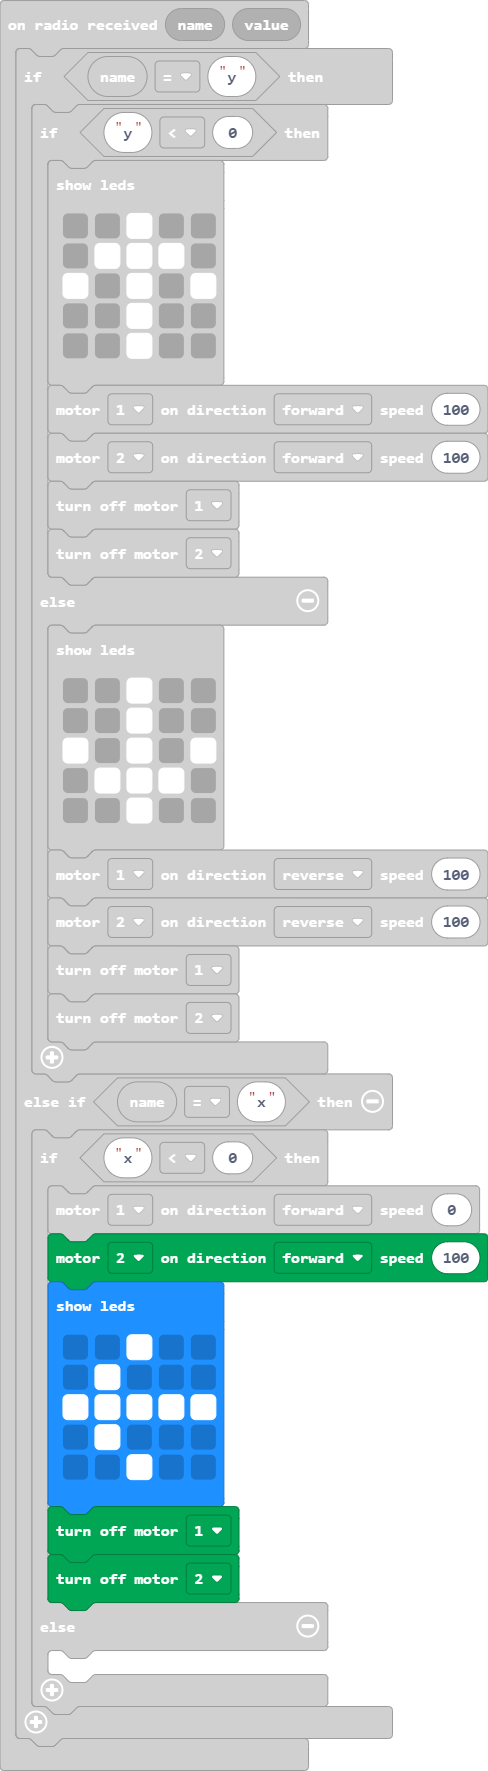
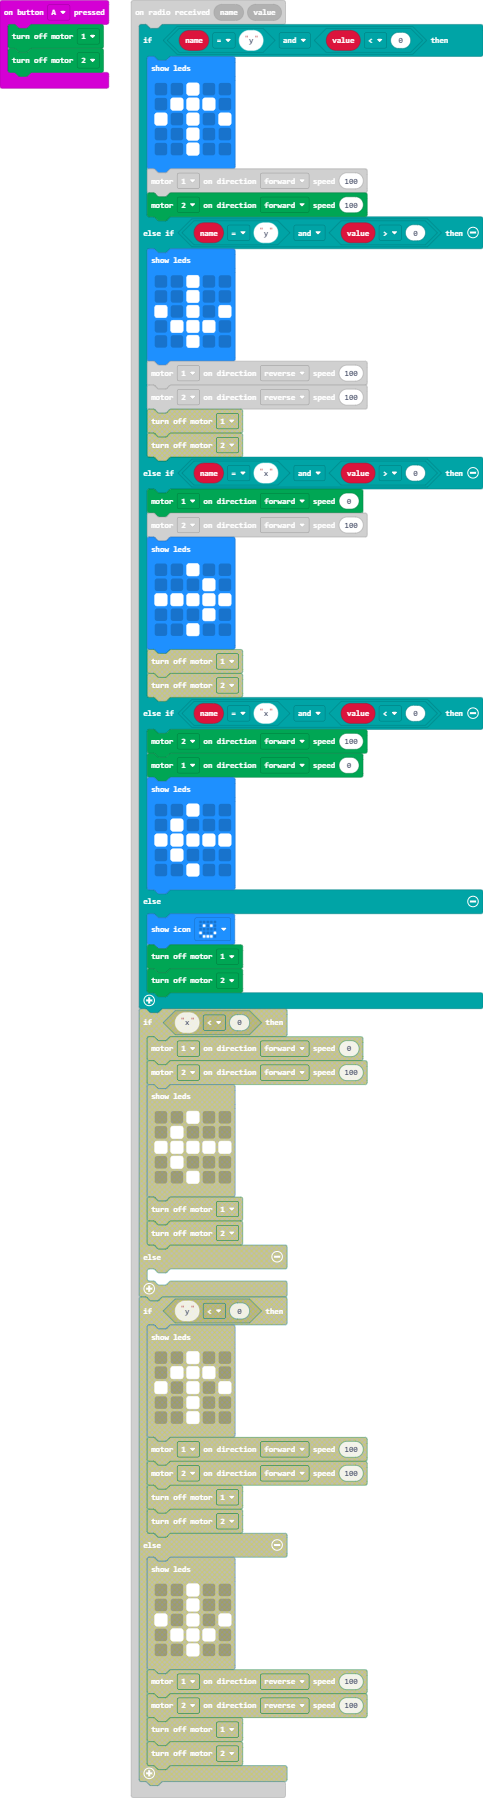
Update main.blocks, main.ts

diff --git a/main.ts b/main.ts
@@ -1,46 +1,52 @@
+input.onButtonPressed(Button.A, function () {
+    kitronik_motor_driver.motorOff(kitronik_motor_driver.Motors.Motor1)
+    kitronik_motor_driver.motorOff(kitronik_motor_driver.Motors.Motor2)
+})
 radio.onReceivedValue(function (name, value) {
-    if (name == "y") {
-        if (("y" as any) < (0 as any)) {
-            basic.showLeds(`
-                . . # . .
-                . # # # .
-                # . # . #
-                . . # . .
-                . . # . .
-                `)
-            kitronik_motor_driver.motorOn(kitronik_motor_driver.Motors.Motor1, kitronik_motor_driver.MotorDirection.Forward, 100)
-            kitronik_motor_driver.motorOn(kitronik_motor_driver.Motors.Motor2, kitronik_motor_driver.MotorDirection.Forward, 100)
-            kitronik_motor_driver.motorOff(kitronik_motor_driver.Motors.Motor1)
-            kitronik_motor_driver.motorOff(kitronik_motor_driver.Motors.Motor2)
-        } else {
-            basic.showLeds(`
-                . . # . .
-                . . # . .
-                # . # . #
-                . # # # .
-                . . # . .
-                `)
-            kitronik_motor_driver.motorOn(kitronik_motor_driver.Motors.Motor1, kitronik_motor_driver.MotorDirection.Reverse, 100)
-            kitronik_motor_driver.motorOn(kitronik_motor_driver.Motors.Motor2, kitronik_motor_driver.MotorDirection.Reverse, 100)
-            kitronik_motor_driver.motorOff(kitronik_motor_driver.Motors.Motor1)
-            kitronik_motor_driver.motorOff(kitronik_motor_driver.Motors.Motor2)
-        }
-    } else if (name == "x") {
-        if (("x" as any) < (0 as any)) {
-            kitronik_motor_driver.motorOn(kitronik_motor_driver.Motors.Motor1, kitronik_motor_driver.MotorDirection.Forward, 0)
-            kitronik_motor_driver.motorOn(kitronik_motor_driver.Motors.Motor2, kitronik_motor_driver.MotorDirection.Forward, 100)
-            basic.showLeds(`
-                . . # . .
-                . # . . .
-                # # # # #
-                . # . . .
-                . . # . .
-                `)
-            kitronik_motor_driver.motorOff(kitronik_motor_driver.Motors.Motor1)
-            kitronik_motor_driver.motorOff(kitronik_motor_driver.Motors.Motor2)
-        } else {
-        	
-        }
+    if (name == "y" && value < 0) {
+        basic.showLeds(`
+            . . # . .
+            . # # # .
+            # . # . #
+            . . # . .
+            . . # . .
+            `)
+        kitronik_motor_driver.motorOn(kitronik_motor_driver.Motors.Motor1, kitronik_motor_driver.MotorDirection.Forward, 100)
+        kitronik_motor_driver.motorOn(kitronik_motor_driver.Motors.Motor2, kitronik_motor_driver.MotorDirection.Forward, 100)
+    } else if (name == "y" && value > 0) {
+        basic.showLeds(`
+            . . # . .
+            . . # . .
+            # . # . #
+            . # # # .
+            . . # . .
+            `)
+        kitronik_motor_driver.motorOn(kitronik_motor_driver.Motors.Motor1, kitronik_motor_driver.MotorDirection.Reverse, 100)
+        kitronik_motor_driver.motorOn(kitronik_motor_driver.Motors.Motor2, kitronik_motor_driver.MotorDirection.Reverse, 100)
+    } else if (name == "x" && value > 0) {
+        kitronik_motor_driver.motorOn(kitronik_motor_driver.Motors.Motor1, kitronik_motor_driver.MotorDirection.Forward, 0)
+        kitronik_motor_driver.motorOn(kitronik_motor_driver.Motors.Motor2, kitronik_motor_driver.MotorDirection.Forward, 100)
+        basic.showLeds(`
+            . . # . .
+            . . . # .
+            # # # # #
+            . . . # .
+            . . # . .
+            `)
+    } else if (name == "x" && value < 0) {
+        kitronik_motor_driver.motorOn(kitronik_motor_driver.Motors.Motor2, kitronik_motor_driver.MotorDirection.Forward, 100)
+        kitronik_motor_driver.motorOn(kitronik_motor_driver.Motors.Motor1, kitronik_motor_driver.MotorDirection.Forward, 0)
+        basic.showLeds(`
+            . . # . .
+            . # . . .
+            # # # # #
+            . # . . .
+            . . # . .
+            `)
+    } else {
+        basic.showIcon(IconNames.Happy)
+        kitronik_motor_driver.motorOff(kitronik_motor_driver.Motors.Motor1)
+        kitronik_motor_driver.motorOff(kitronik_motor_driver.Motors.Motor2)
     }
 })
 radio.setGroup(1)
